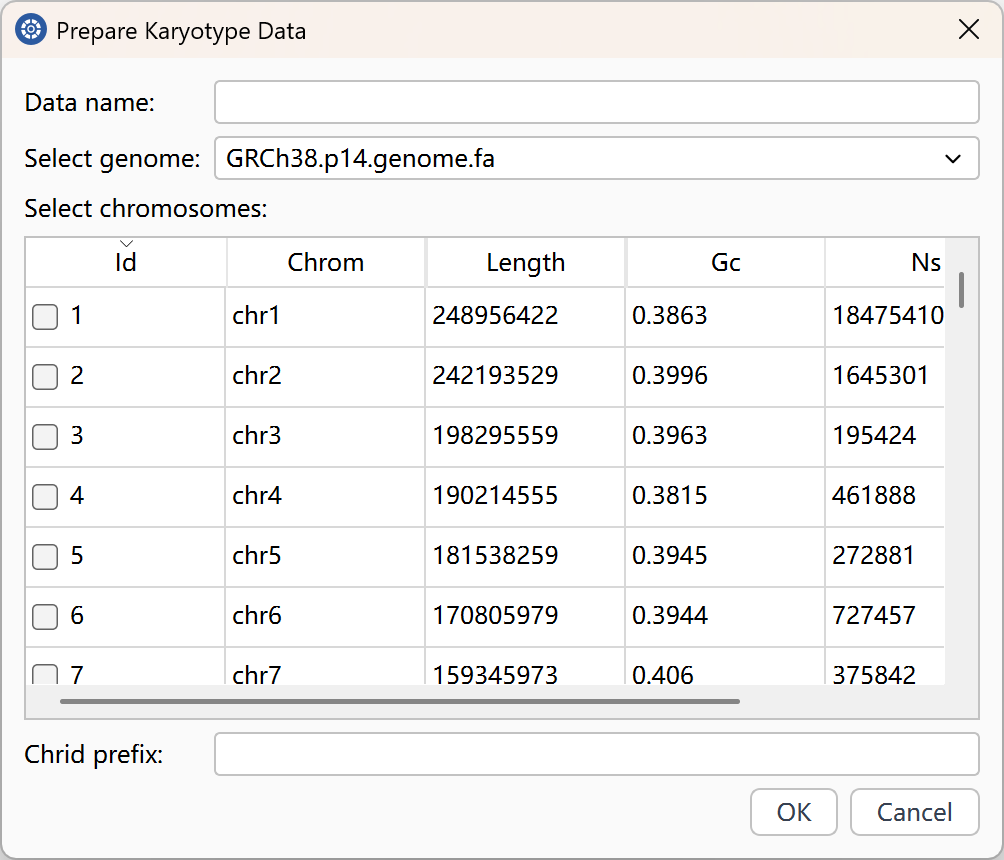
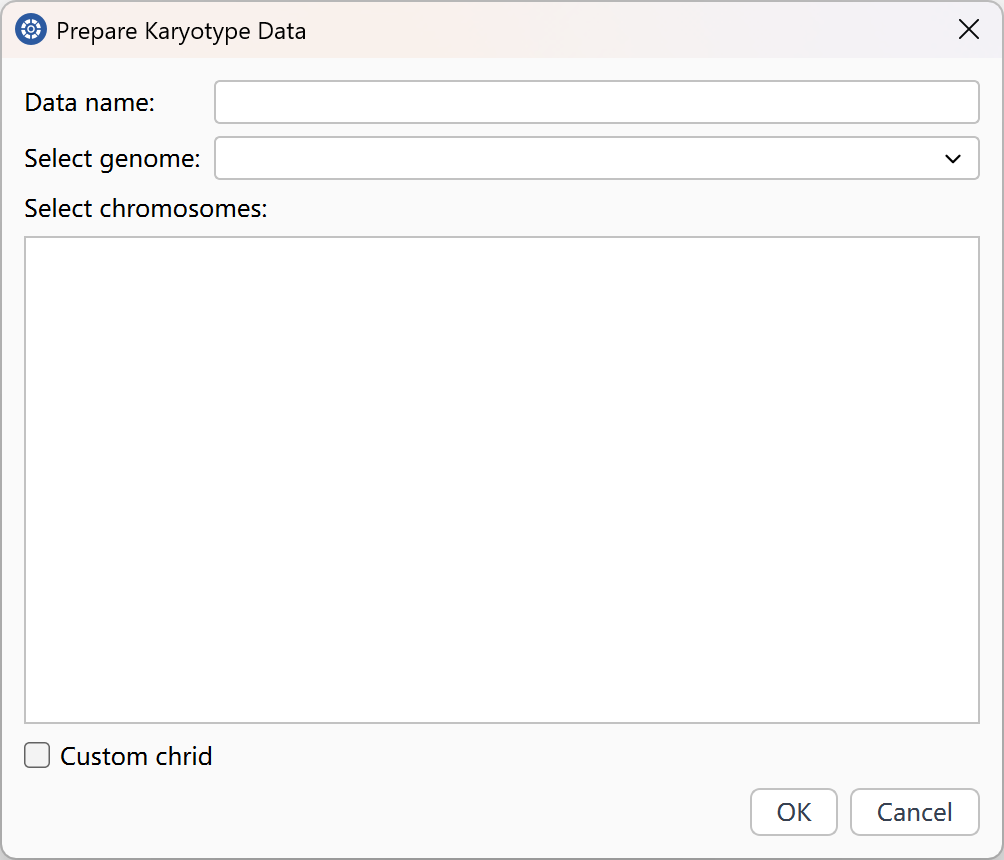
bump to 0.8.0

diff --git a/src/dialogs.py b/src/dialogs.py
@@ -865,6 +865,7 @@ class CirchartStackPrepareDialog(CirchartBaseDialog):
 		self.chrom_column.setRange(1, 1000)
 		self.start_column.setRange(1, 1000)
 		self.end_column.setRange(1, 1000)
+		self.category_column.setRange(1, 1000)
 		self.value_type.addItems(['counts', 'percent'])
 
 		ks = SqlControl.get_datas_by_type('karyotype')

diff --git a/src/config.py b/src/config.py
@@ -31,10 +31,10 @@ __all__ = [
 ROOT_PATH = Path(__file__).parent
 
 APP_NAME = "Circhart"
-APP_BUILD = "20261122"
+APP_BUILD = "20261123"
 APP_VERSION = "0.8.0"
 
-APP_DEBUG = True
+APP_DEBUG = False
 
 APP_ISSUE_URL = "https://github.com/lmdu/circhart/issues"
 APP_DOCUMENT_URL = "https://circhart.readthedocs.io"

diff --git a/docs/source/prepare.rst b/docs/source/prepare.rst
@@ -78,7 +78,13 @@ If you don't have karyotype data, you can prepare karyotype data.
 
 		Generally, genome file may have many unplaced sequences that we don't want to be used for plotting. You can select only the complete chromosomes or chromosomes you desired. You can use right clicked menu to guess and select chromosomes.
 
-#. Input chrid prefix. e.g. ``hs`` for human, ``mm`` for mouse, or you can also simply use ``chr`` for single genome. The circhart will use the this prefix to generate new name for each chromosome. e.g. hs1, hs2, hs3.
+#. By default, circhart use chromosome name as chrid. If you want to custom chrid, you can click ``custom chrid``, and then input chrid prefix, e.g. ``hs`` for human, ``mm`` for mouse, or you can also simply use ``chr`` for single genome. The circhart will use this prefix to generate new name for each chromosome. e.g. hs1, hs2, hs3.
+
+	.. figure:: _static/prepare_kdata2.png
+		:width: 500
+		:align: center
+
+		Custom chrid for karyotype data preparation
 
 #. Click ``OK`` button to generate karyotype data based on selected chromosomes.
 
@@ -466,16 +472,22 @@ Circhart allows you to prepare link data from whole-genome alignment file genera
 Stack Data
 ----------
 
-The link data has six required columns: chrid, start, end, cat1, cat2, ..., catn and one optional column: options. Each row has two intervals on the same or different chromosomes. The link data used to plot link track.
+The stack data has variable columns: chrid, start, end, cat1, cat2, ..., catn. The chrid, start and end are required columns. Each row can contain multiple category values.
 
-Link data example:
+Stack data example:
 
 .. code::
 
-	hs1 1000 3000 hs10 2500 3800
-	hs3 7000 9500 hs8 4000 7000
-	hs7 500 1500 hs12 5000 6000
-	...
+	chr1	1	2000000	509.0	96.0	32.0	92.0	56.0	23.0
+	chr1	2000001	4000000	244.0	69.0	27.0	146.0	22.0	6.0
+	chr1	4000001	6000000	265.0	154.0	47.0	195.0	36.0	6.0
+	chr1	6000001	8000000	635.0	129.0	79.0	173.0	33.0	6.0
+	chr1	8000001	10000000	972.0	137.0	86.0	251.0	41.0	9.0
+	chr1	10000001	12000000	871.0	137.0	79.0	253.0	49.0	16.0
+	chr1	12000001	14000000	642.0	97.0	65.0	248.0	46.0	13.0
+	chr1	14000001	16000000	705.0	113.0	47.0	183.0	38.0	4.0
+	chr1	16000001	18000000	654.0	83.0	84.0	230.0	55.0	10.0
+	chr1	18000001	20000000	483.0	125.0	86.0	267.0	37.0	14.0
 
 Import Stack Data
 ^^^^^^^^^^^^^^^^^
@@ -488,6 +500,40 @@ If you already have stack data, you can import data directly into Circhart. Go t
 
 Prepare Stack Data
 ^^^^^^^^^^^^^^^^^^
+
+Circhart allows you to calculate density from table files group by category to prepare stack data.
+
+#. Go to **Tools** menu -> **Prepare Data** -> **Prepare Stack Data** to open stack data preparation dialog.
+
+	.. figure:: _static/prepare_stack.png
+		:width: 500
+		:align: center
+
+		Stack data preparation dialog
+
+#. Input a name for generated stack data.
+
+#. Select a karyotype.
+
+#. Select a table file.
+
+#. Input the starting characters or words of lines to ignore. Multiple characters or words can be separated by comma, for example ``#,@,*``.
+
+#. Specify chromosome column.
+
+#. Specify start position column.
+
+#. Specify end position column.
+
+#. Specify category column.
+
+#. Input the category order separated by comma, for example, ``A, B, C``.
+
+#. Select value type (counts or percent), percent = catn/(cat1+cat2+...+catn)*100.
+
+#. Specify window type and size.
+
+#. Click ``OK`` button to prepare stack data.
 
 Extract Data
 ------------

diff --git a/docs/source/changelog.rst b/docs/source/changelog.rst
@@ -1,13 +1,18 @@
 Changelogs
 ==========
 
-Version 0.8.0 (2026-10-08)
+Version 0.8.0 (2026-11-23)
 --------------------------
 
+- Added support for stack data 
 - Added plot rename feature
+- Added value limit for plotting
 - Added citation and acknowledgements
-- Fixed menu item disabled style
+- Changed karyotype data preparation
 - Improved right-click menu of data and plot
+- Fixed menu item disabled style
+- Fixed vcf parse error
+- Fixed glyph track error
 
 Version 0.7.0 (2026-10-07)
 --------------------------
